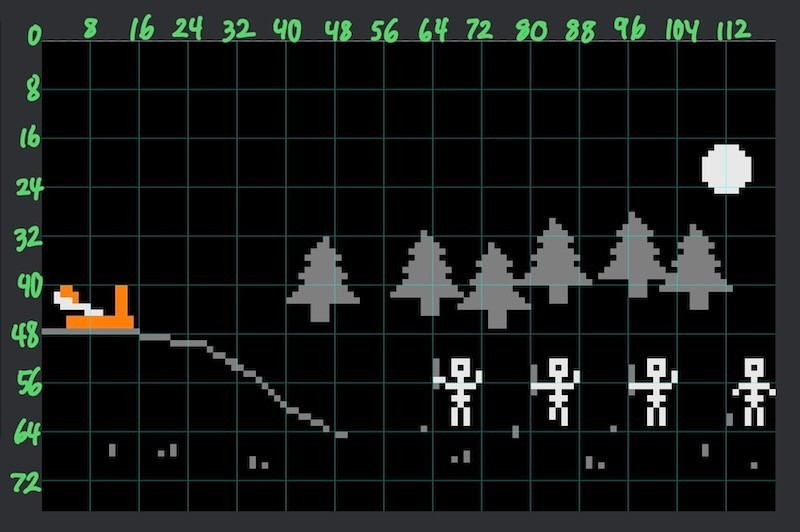
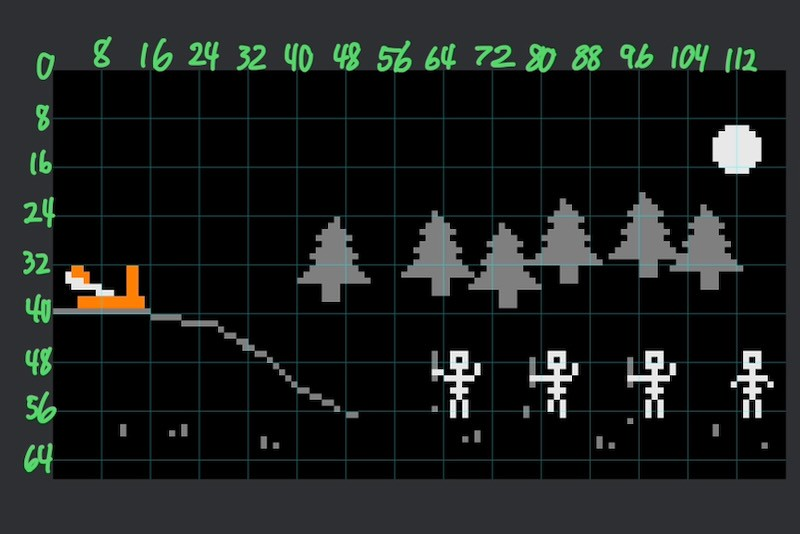
add background image

diff --git a/code.py b/code.py
@@ -36,6 +36,7 @@ from supervisor import ticks_ms
 from usb.core import USBError
 from time import sleep
 
+import adafruit_imageload
 from adafruit_st7789 import ST7789
 from gamepad import (
     XInputGamepad, UP, DOWN, LEFT, RIGHT, START, SELECT, A, B, X, Y)
@@ -88,8 +89,11 @@ def main():
 
     # Configure display's root group
     gc.collect()
-    grp = Group(scale=1)
-#     grp.append()
+    (bmp, pal) = adafruit_imageload.load(
+        "pumpkin-toss-bkgnd.png", bitmap=Bitmap, palette=Palette)
+    bkgnd = TileGrid(bmp, pixel_shader=pal)
+    grp = Group(scale=2)
+    grp.append(bkgnd)
     display.root_group = grp
     display.refresh()
 
